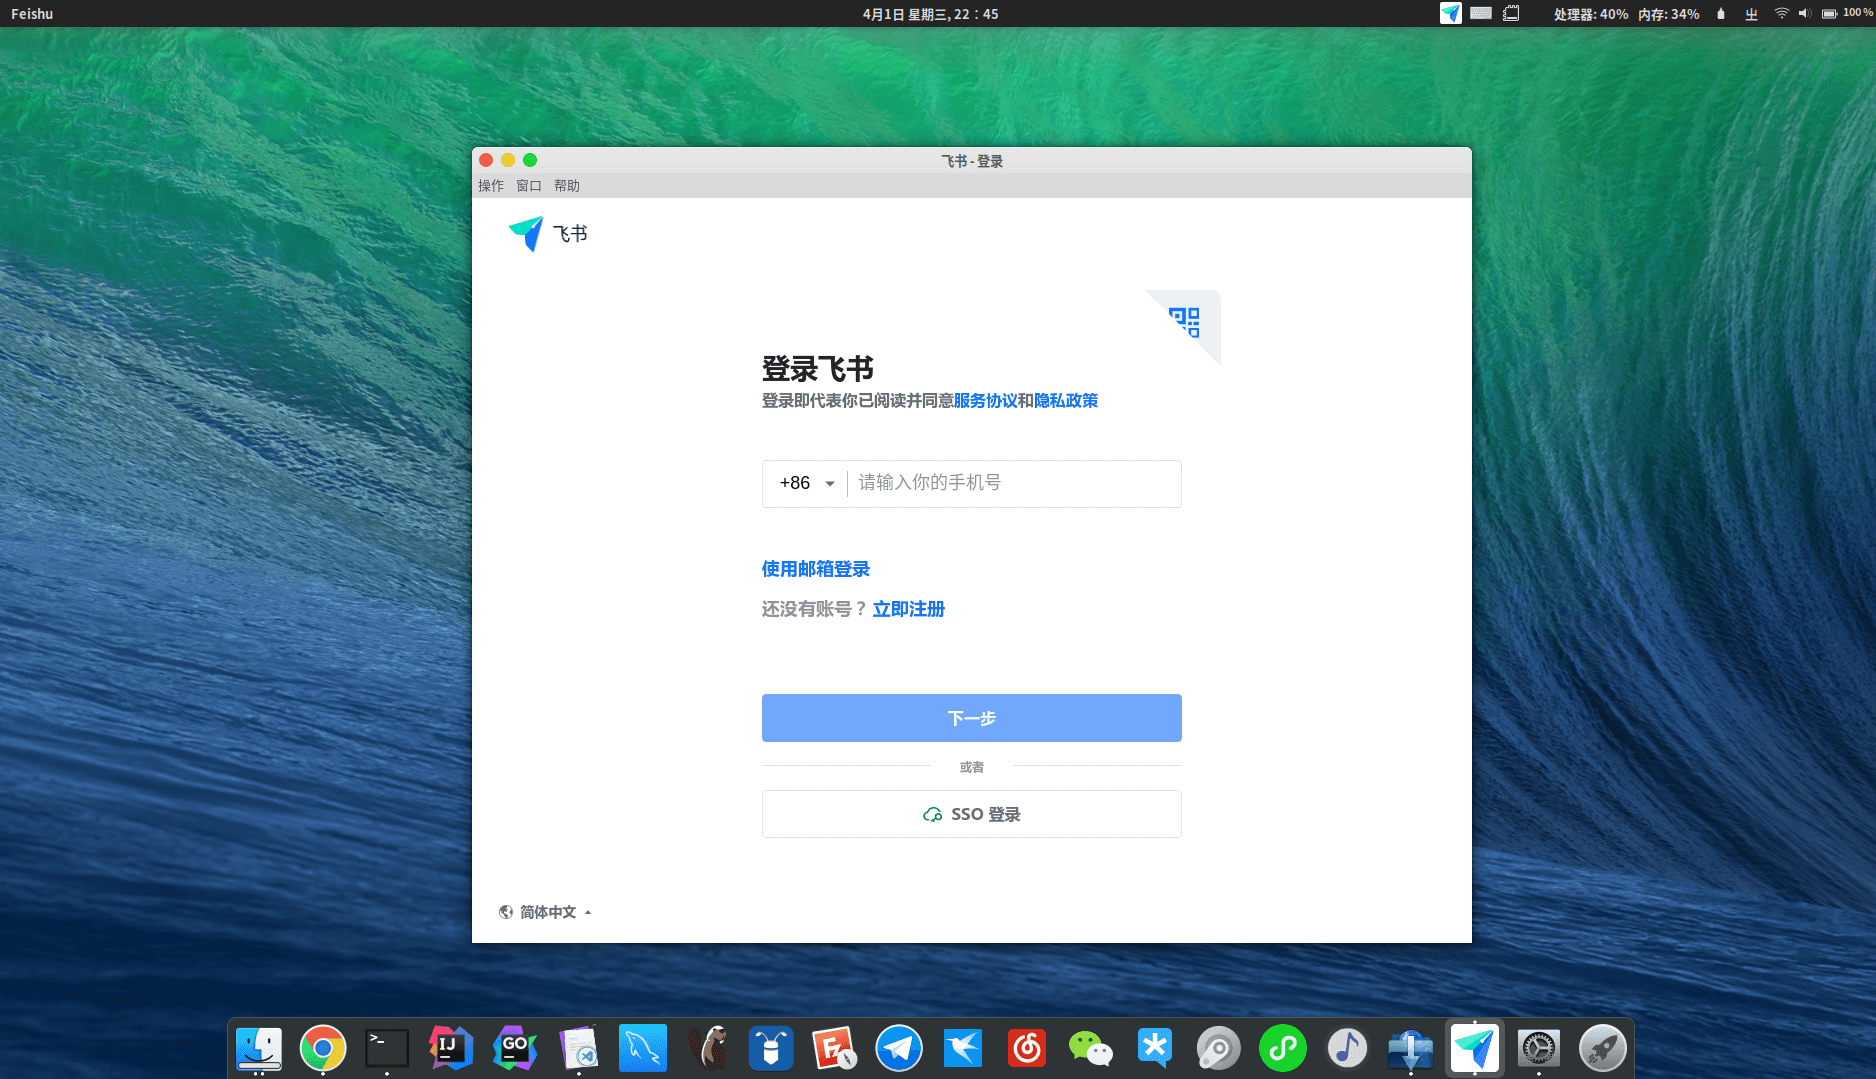
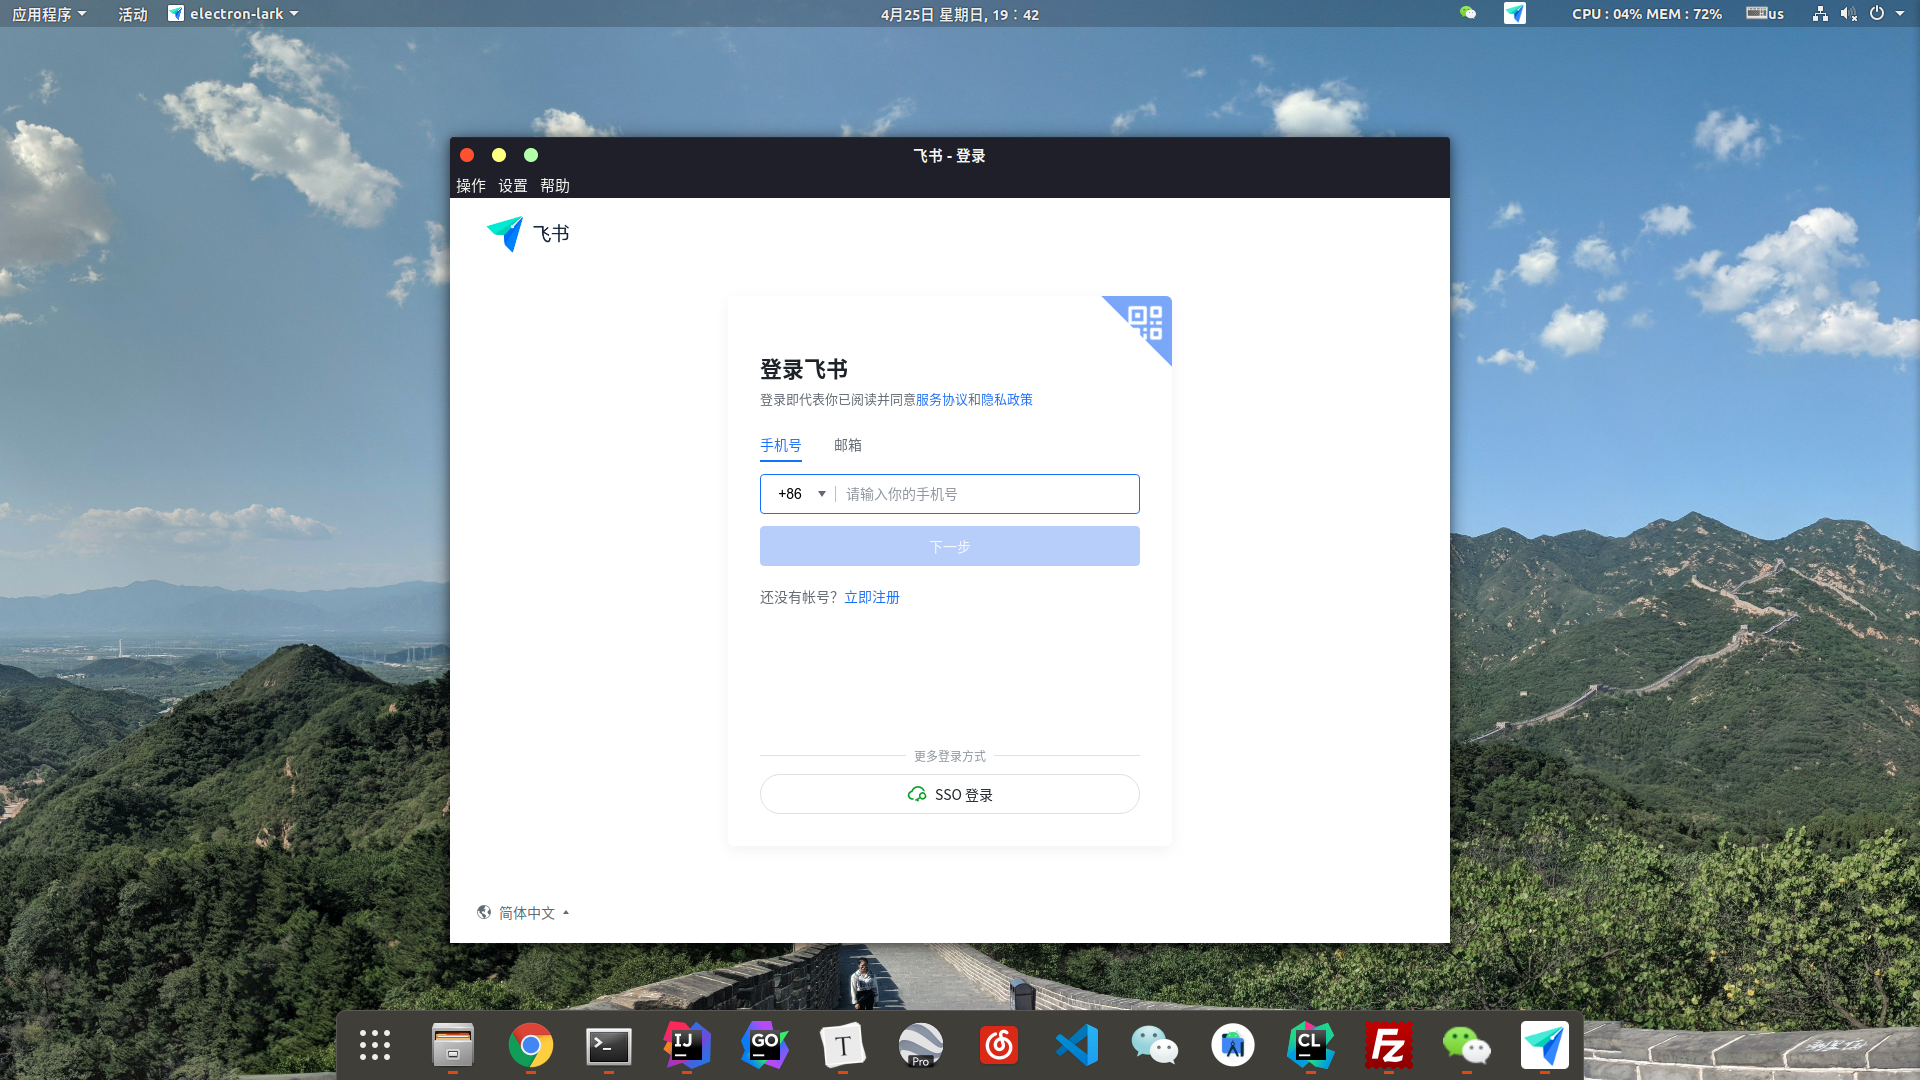
Release v1.1.0

diff --git a/README.md b/README.md
@@ -29,7 +29,24 @@ electron 版的飞书 Feishu (原 Lark)，对网页版本进行封装
 ![screen-shot](screenshot/electron-lark-1.png)
 
 ## 版本记录
+### v1.1.0
+ - 咕咕咕了很久的设置界面终于加上了 (~~又不是不能用~~)
  
+    在顶部菜单栏: 设置 -> 功能设置处进入，当前支持自定义以下设置项
+    
+    - 外链设置
+        - 可设置哪些链接直接 electron 内部打开
+        - 默认所有链接都通过浏览器打开
+    - 水印设置
+        - 是否显示页面水印
+        - 默认为关闭
+    - 服务器设置
+        - 如果公司使用的是内部部署飞书服务，可由此自定义登录入口
+        - 默认为飞书官方登录页面
+  - electron 依赖升级到 12.0.5
+  
+  -  ![screen-shot](screenshot/electron-lark-2.png)
+  
 ### v1.0.3
  - 修复 ubuntu 下锁屏后 appTray 消失的问题
 
